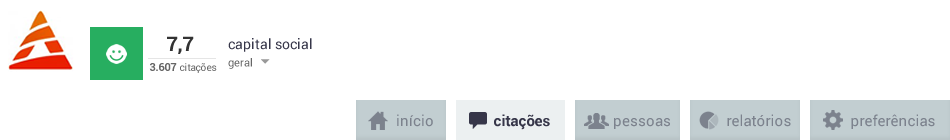
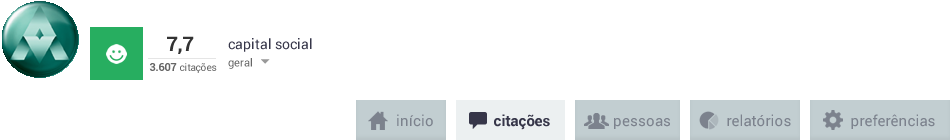
Topo anhembi e barra de acoes

Changed region(s): [[0.0, 0.0, 0.0916, 0.5714]]

diff --git a/index.html b/index.html
@@ -35,7 +35,7 @@
         <ul class="nav navbar-nav">
           <li class="dropdown">
             <a href="#" class="dropdown-toggle" data-toggle="dropdown">
-             <img src="assets/img/instituicao-01.png" alt="anhanguera" class="nav-img">Anhanguera <span class="caret"></span>
+             <img src="assets/img/instituicao-02.png" alt="" class="nav-img">Anhembi Morumbi <span class="caret"></span>
             </a>
             <ul class="dropdown-menu" role="menu">
               <li><a href="#">Action</a></li>
@@ -83,6 +83,8 @@
     <!--/CONTEÚDO DA PÁGINA-->
     <div id="content">
       <div class="container">
+
+        <img src="assets/img/actions-bar.png" /><br><br><br>
       
 
         <!--/CITAÇÃO-->

diff --git a/assets/scss/_default.scss b/assets/scss/_default.scss
@@ -372,7 +372,7 @@ label {font-weight: normal;}
 /* CABEÇALHO*/
 #header {
 	background-color: $header-bg-gray;
-	margin: -20px 0 50px;
+	margin: -20px 0 40px;
 	padding: 30px 0 0;
 }
 

diff --git a/assets/css/app.css b/assets/css/app.css
@@ -664,7 +664,7 @@ label {
 /* line 373, ../scss/_default.scss */
 #header {
   background-color: #95a5a6;
-  margin: -20px 0 50px;
+  margin: -20px 0 40px;
   padding: 30px 0 0;
 }
 
